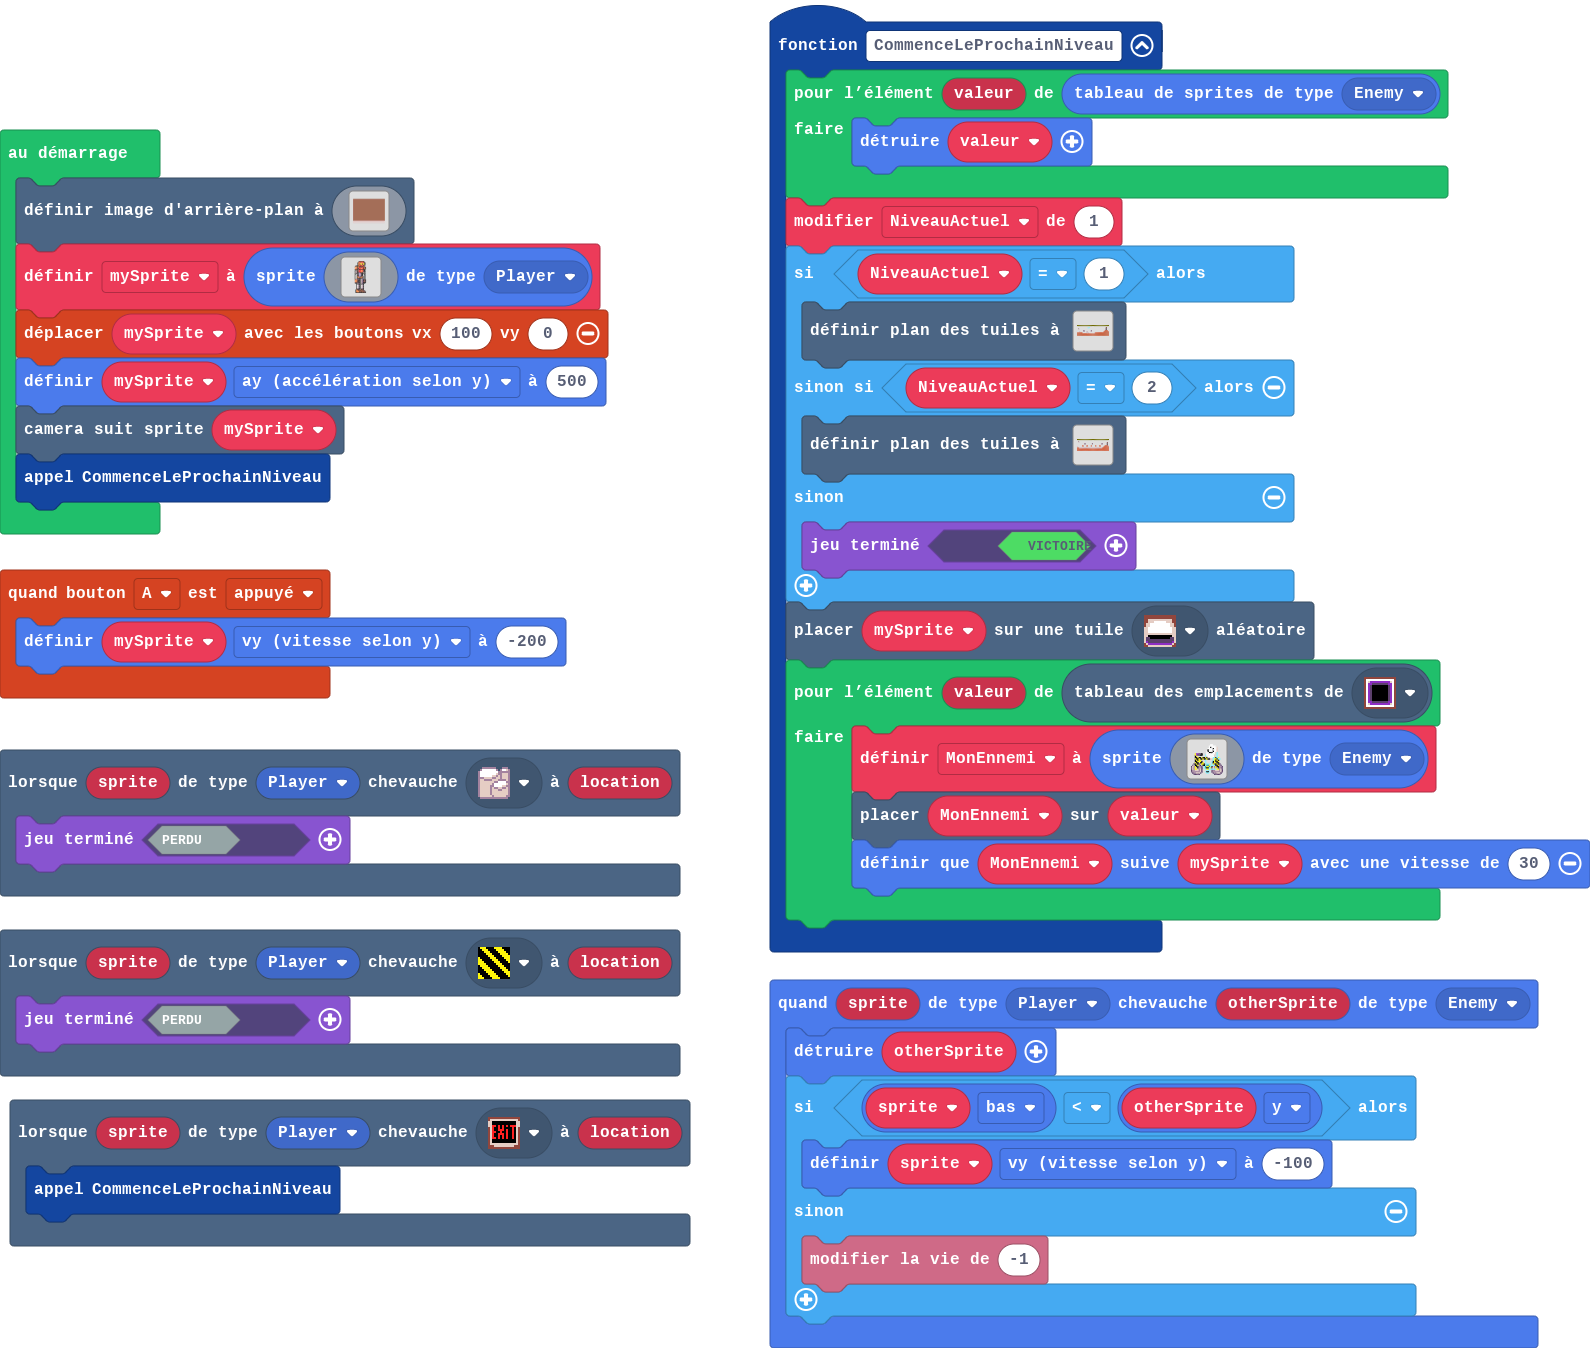
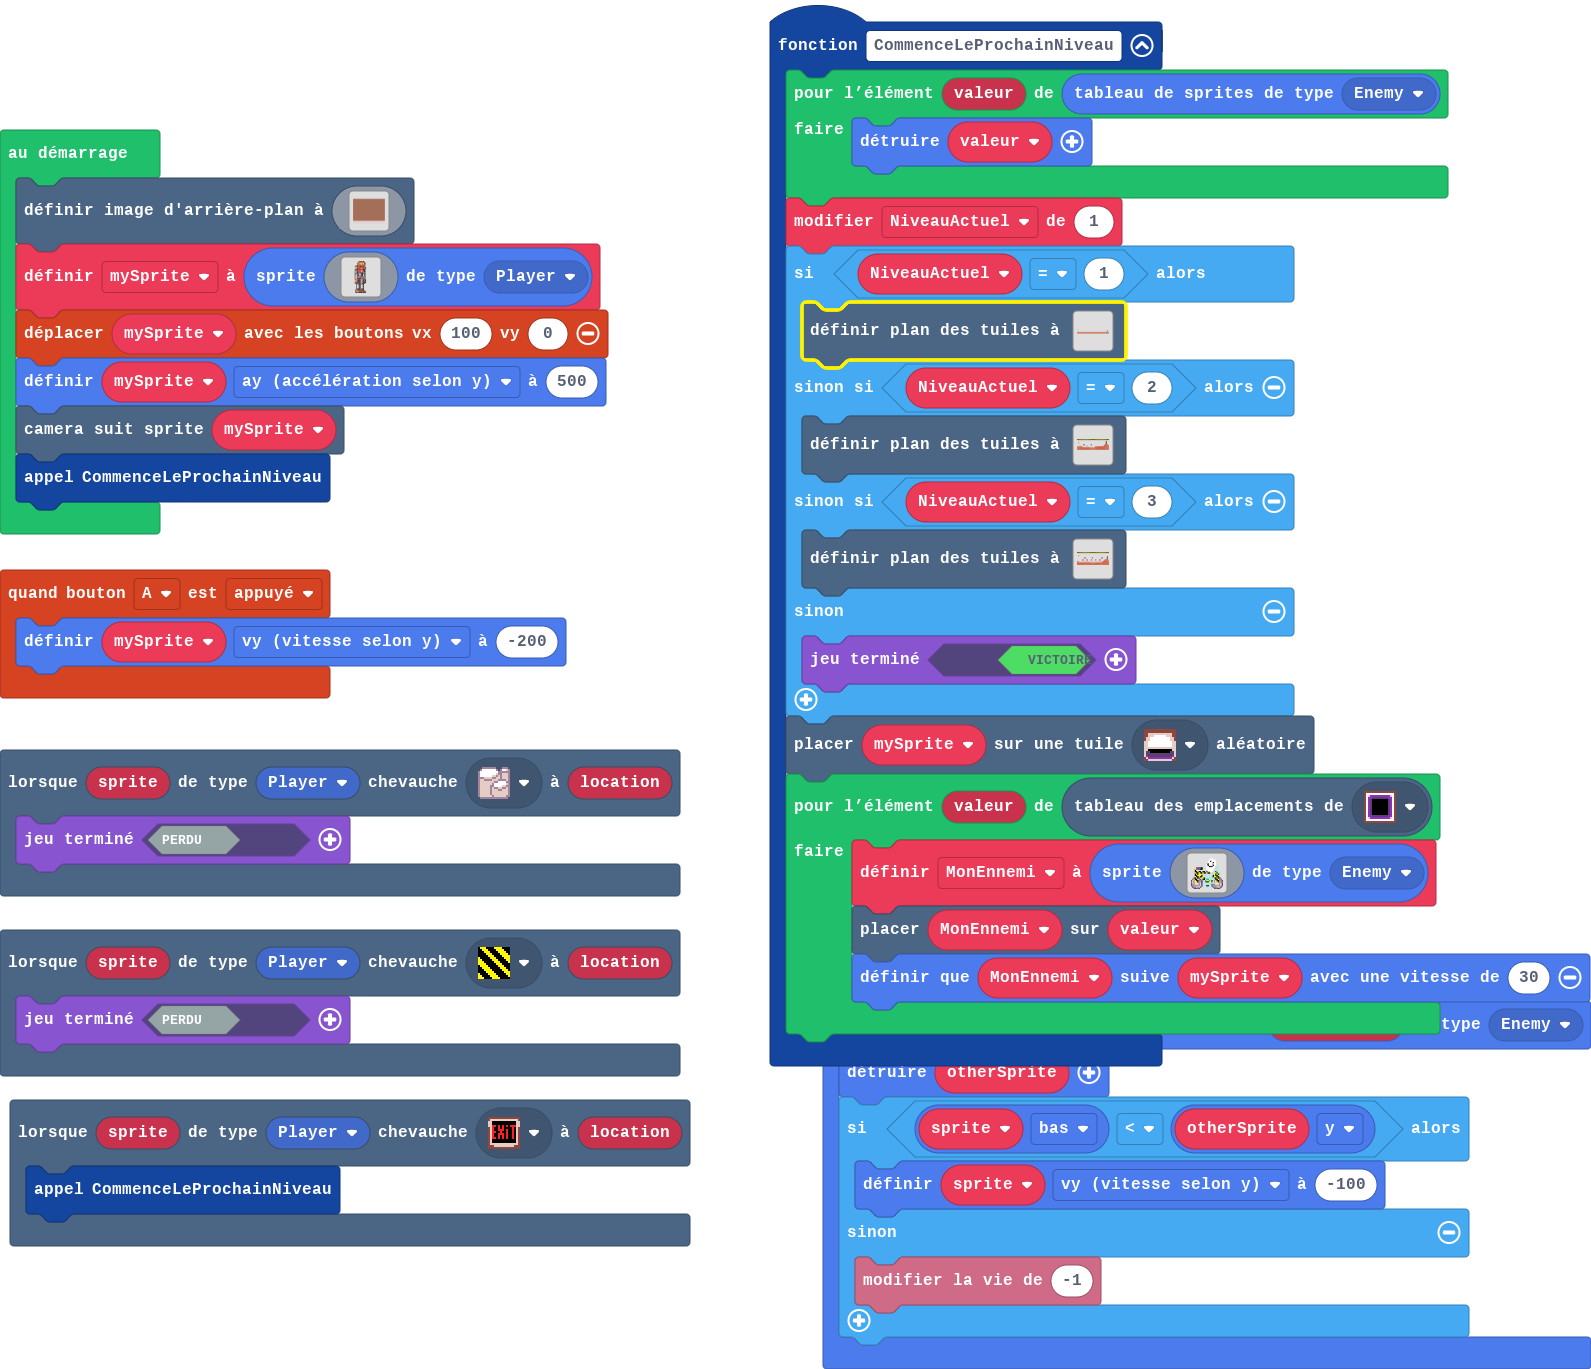
Mise à jour main.blocks, main.ts, tilemap.g.jres, tilemap.g.ts

diff --git a/tilemap.g.ts b/tilemap.g.ts
@@ -23,14 +23,43 @@ namespace myTiles {
     //% fixedInstance jres blockIdentity=images._tile
     export const tile10 = image.ofBuffer(hex``);
     //% fixedInstance jres blockIdentity=images._tile
-    export const tile11 = image.ofBuffer(hex``);
+    export const tile16 = image.ofBuffer(hex``);
     //% fixedInstance jres blockIdentity=images._tile
-    export const tile12 = image.ofBuffer(hex``);
+    export const tile17 = image.ofBuffer(hex``);
+    //% fixedInstance jres blockIdentity=images._tile
+    export const tile18 = image.ofBuffer(hex``);
+    //% fixedInstance jres blockIdentity=images._tile
+    export const tile19 = image.ofBuffer(hex``);
+    //% fixedInstance jres blockIdentity=images._tile
+    export const tile20 = image.ofBuffer(hex``);
+    //% fixedInstance jres blockIdentity=images._tile
+    export const tile21 = image.ofBuffer(hex``);
+    //% fixedInstance jres blockIdentity=images._tile
+    export const tile13 = image.ofBuffer(hex``);
+    //% fixedInstance jres blockIdentity=images._tile
+    export const tile14 = image.ofBuffer(hex``);
+    //% fixedInstance jres blockIdentity=images._tile
+    export const tile15 = image.ofBuffer(hex``);
 
     helpers._registerFactory("tilemap", function(name: string) {
         switch(helpers.stringTrim(name)) {
-            case "niveau3":
-            case "niveau3":return tiles.createTilemap(hex`1000100000000000000000000000000000000000000000000000000000000000000000000000000000000000000000000000000000000000000000000000000000000000000000000000000000000000000000000000000000000000000000000000000000000000000000000000000000000000000000000000000000000000000000000000000000000000000000000000000000000000000000000000000000000000000000000000000000000000000000000000000000000000000000000000000000000000000000000000000000000000000000000000000000000000000000000000000000000000000000000000000000000000000000000000000000000000`, img`
+            case "Deux - Niveau":
[1 lines of base64/hex data omitted]
+..............................
+..............................
+..............................
+..............................
+..............................
+..............................
+..............................
+.....2...2...2...2...2....222.
+.........................22222
+22......................222222
+222222222222222222222222222222
+222222222222222222222222222222
+`, [myTiles.transparency16,myTiles.tile5,myTiles.tile1,myTiles.tile2,myTiles.tile3,myTiles.tile4,myTiles.tile7,myTiles.tile6,myTiles.tile9], TileScale.Sixteen);
+            case "niveau1":
+            case "niveau1":return tiles.createTilemap(hex`1000100000000000000000000000000000000000000000000000000000000000000000000000000000000000000000000000000000000000000000000000000000000000000000000000000000000000000000000000000000000000000000000000000000000000000000000000000000000000000000000000000000000000000000000000000000000000000000000000000000000000000000000000000000000000000000000000000000000000000000000000000000000000000000000000000000000000000000000000000000000000000000000000000000000000000000000000000000000000000000000000000000000000000000000000000000000000`, img`
 . . . . . . . . . . . . . . . . 
 . . . . . . . . . . . . . . . . 
 . . . . . . . . . . . . . . . . 
@@ -48,8 +77,21 @@ namespace myTiles {
 . . . . . . . . . . . . . . . . 
 . . . . . . . . . . . . . . . . 
 `, [myTiles.transparency16], TileScale.Sixteen);
+            case "Tutoriel":
[1 lines of base64/hex data omitted]
+..................................................
+..................................................
+..................................................
+..................................................
+..................................................
+..................................................
+..................................................
+..................................................
+22222222222222222222222222222222222222222222222222
+22222222222222222222222222222222222222222222222222
+`, [myTiles.transparency16,myTiles.tile3,myTiles.tile1,myTiles.tile10,myTiles.tile4,myTiles.tile7,myTiles.tile6,myTiles.tile13,myTiles.tile14,myTiles.tile15], TileScale.Sixteen);
             case "Un - Niveau":
[2 lines of base64/hex data omitted]
 . . . . . . . . . . . . . . . . . . . . . . . . . . . . . . 
 . . . . . . . . . . . . . . . . . . . . . . . . . . . . . . 
 . . . . . . . . . . . . . . . . . . . . . . . . . . . . . . 
@@ -60,21 +102,7 @@ namespace myTiles {
 2 2 2 2 2 . . . . . . . . . . . . 2 2 2 2 2 2 2 2 2 2 2 2 2 
 2 2 2 2 2 2 2 2 2 2 2 2 2 2 2 2 2 2 2 2 2 2 2 2 2 2 2 2 2 2 
 2 2 2 2 2 2 2 2 2 2 2 2 2 2 2 2 2 2 2 2 2 2 2 2 2 2 2 2 2 2 
-`, [myTiles.transparency16,myTiles.tile1,myTiles.tile3,myTiles.tile4,myTiles.tile5,myTiles.tile2,myTiles.tile6,myTiles.tile7,myTiles.tile8,myTiles.tile9,myTiles.tile10,myTiles.tile11,myTiles.tile12], TileScale.Sixteen);
-            case "Deux - Niveau":
[1 lines of base64/hex data omitted]
-..............................
-..............................
-..............................
-..............................
-..............................
-..............................
-.....2...2...2...2...2....222.
-.........................22222
-22......................222222
-222222222222222222222222222222
-222222222222222222222222222222
-`, [myTiles.transparency16,myTiles.tile5,myTiles.tile1,myTiles.tile2,myTiles.tile3,myTiles.tile4,myTiles.tile7,myTiles.tile6,myTiles.tile9], TileScale.Sixteen);
+`, [myTiles.transparency16,myTiles.tile1,myTiles.tile3,myTiles.tile4,myTiles.tile5,myTiles.tile2,myTiles.tile6,myTiles.tile7,myTiles.tile8,myTiles.tile9,myTiles.tile10,myTiles.tile15,myTiles.tile13,myTiles.tile14], TileScale.Sixteen);
         }
         return null;
     })
@@ -96,10 +124,24 @@ namespace myTiles {
             case "tile9":return tile9;
             case "tile1":return tile1;
             case "tile10":return tile10;
-            case "myTile3":
-            case "tile11":return tile11;
-            case "myTile4":
-            case "tile12":return tile12;
+            case "myTile8":
+            case "tile16":return tile16;
+            case "myTile9":
+            case "tile17":return tile17;
+            case "myTile10":
+            case "tile18":return tile18;
+            case "myTile11":
+            case "tile19":return tile19;
+            case "myTile12":
+            case "tile20":return tile20;
+            case "myTile13":
+            case "tile21":return tile21;
+            case "myTile5":
+            case "tile13":return tile13;
+            case "myTile6":
+            case "tile14":return tile14;
+            case "myTile7":
+            case "tile15":return tile15;
         }
         return null;
     })

diff --git a/main.ts b/main.ts
@@ -7,8 +7,10 @@ function CommenceLeProchainNiveau () {
     }
     NiveauActuel += 1
     if (NiveauActuel == 1) {
-        tiles.setTilemap(tilemap`Un - Niveau`)
+        tiles.setTilemap(tilemap`Tutoriel`)
     } else if (NiveauActuel == 2) {
+        tiles.setTilemap(tilemap`Un - Niveau`)
+    } else if (NiveauActuel == 3) {
         tiles.setTilemap(tilemap`Deux - Niveau`)
     } else {
         game.over(true)
